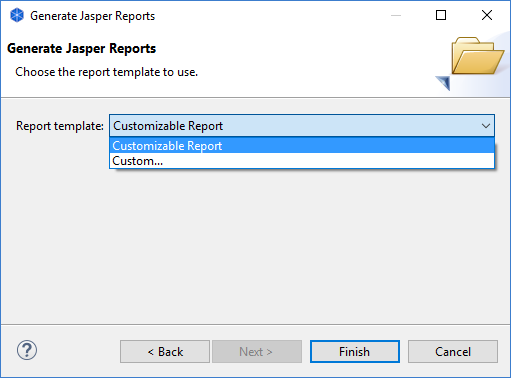
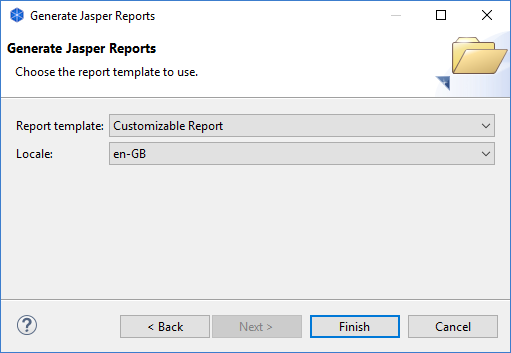
4.1.1 -> 4.2.0

diff --git a/com.archimatetool.help.en/nl/en/help/Text/install.html b/com.archimatetool.help.en/nl/en/help/Text/install.html
@@ -12,7 +12,7 @@
 
 	<h1 class="pagebreak">Installing and Launching Archi</h1>
 	
-	<p>Download the required version from <a href="http://www.archimatetool.com">http://www.archimatetool.com</a></p>
+	<p>Download the required version from <a href="https://www.archimatetool.com">https://www.archimatetool.com</a></p>
 	<p>The Windows version has an installer. Run the installer to install Archi to your system. Windows Windows 7, 8 and 10 32-bit and 64-bit versions are supported. The installer simply copies the program files to the target directory and associates *.archimate files with Archi. An uninstaller is also included.</p>
     <p>You can also install Archi manually with a zip installation. Unzip this file and run either the "Archi" or program file. Also included are some Windows batch files - "RegisterFileAssociation.bat" and "UnregisterFileAssociation.bat". The first of these files will register the *.archimate file extension with Archi in the Windows Registry. The second batch file will unregister the file association.</p>
 	<p>The Mac and Linux versions are packaged in zip and tar.gz files respectively. Simply un-archive the downloaded archive file and double-click the "Archi" application file to launch the program.</p>

diff --git a/com.archimatetool.help.en/nl/en/help/Text/reporting-jasper.html b/com.archimatetool.help.en/nl/en/help/Text/reporting-jasper.html
@@ -23,7 +23,7 @@
       
     <br/>
     
-    <p>And then in the next wizard page, choose the report template that you prefer:</p>
+    <p>And then in the next wizard page, choose the report template that you prefer, and also the locale if you have provided localised language strings for the report template:</p>
     
     <img src="../Images/jasper_wizard2.png"/>
     <p class="caption">Jasper Reports wizard page 2</p>

diff --git a/com.archimatetool.help.en/nl/en/help/Text/intro.html b/com.archimatetool.help.en/nl/en/help/Text/intro.html
@@ -29,7 +29,7 @@
         <li>Andrew Josey and The Open Group for positivity and support.</li>
 	</ul>
     
-    <p>Copyright (c) 2013-2017 Phillip Beauvoir, Jean-Baptiste Sarrodie, The Open Group. All Rights Reserved.</p>
+    <p>Copyright (c) 2013-2018 Phillip Beauvoir, Jean-Baptiste Sarrodie, The Open Group. All Rights Reserved.</p>
     
     <p>&nbsp;</p>
 
